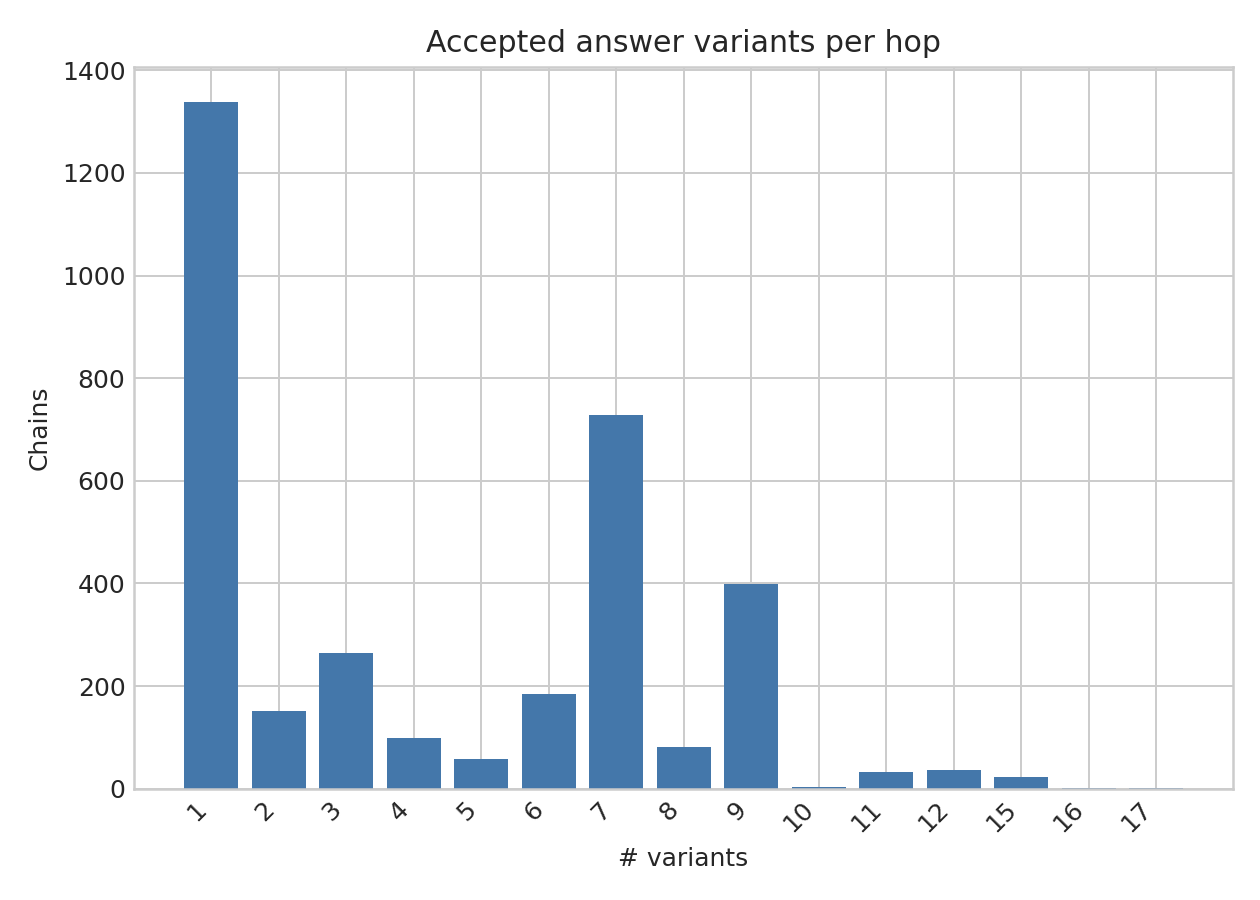
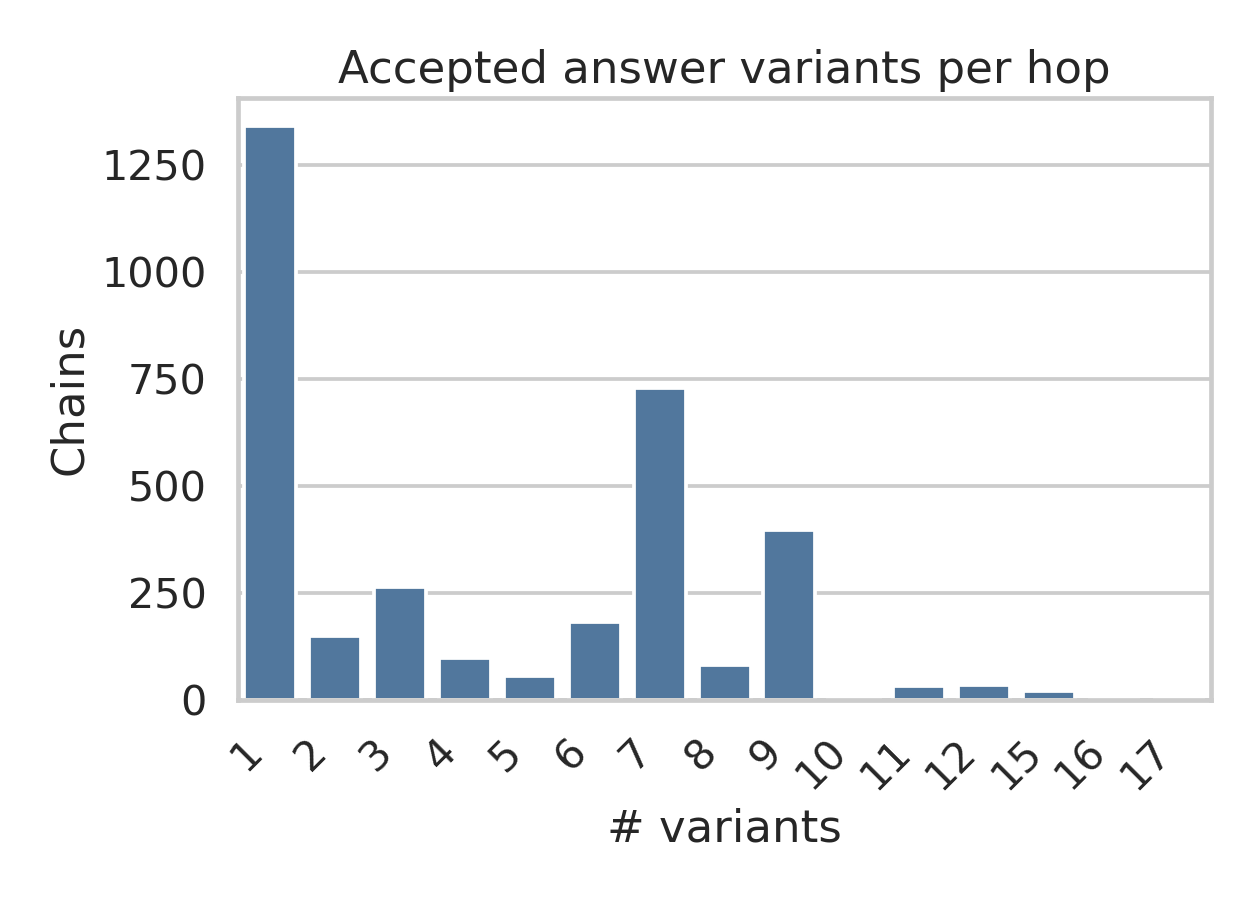
Regenerate Privacy HopQA viewer with seaborn plots

diff --git a/data_files/privacy_hopqa_final_dataset/dataset_viewer.html b/data_files/privacy_hopqa_final_dataset/dataset_viewer.html
@@ -25,7 +25,7 @@ function sourceLine(h){const rows=h.answer_variant_sources||[];if(!rows.length)r
 function hop(h){const issues=(h.question_issues||[]).map(issueLabel).map(esc).join(', ');const vars=h.accepted_answer_variants||[],alts=h.alternate_valid_answers||[];return `<div class="hop-detail"><div><span class="b ${h.hop_type==='L'?'b-l':'b-w'}">${esc(h.hop_type)}</span> <b>Hop ${h.hop_number}</b> <span class="tag">${esc(h.doc_inferred_by)}</span><span class="tag">${vars.length} accepted answers</span>${alts.length?`<span class="tag">${alts.length} alternates</span>`:''}</div>${issues?`<div class="warn"><b>Question issue:</b> ${issues}</div>`:''}<div class="hop-q">${esc(h.question_templated||h.question)}</div><div class="hop-a">Canonical answer: ${esc(h.answer)}</div><div class="altbox"><b>Accepted answers for exact-match eval (${vars.length}):</b><div class="variants">${vars.map(v=>`<code>${esc(v)}</code>`).join(' ')}</div>${alts.length?`<b>Alternates only (${alts.length}):</b><div class="variants">${alts.map(v=>`<code>${esc(v)}</code>`).join(' ')}</div>`:''}${sourceLine(h)}</div><div class="hop-doc">${esc(h.doc_id)}${h.doc_ref?' · '+esc(h.doc_ref):''}</div>${h.supporting_span?`<div class="hop-span">${esc(h.supporting_span)}</div>`:''}</div>`}
 function splitPanel(){if(!SPLIT||!SPLIT.counts)return '';return `<div class="panel"><div class="panel-title">Canonical train / val / test split</div><p><b>Strategy:</b> ${esc(SPLIT.strategy)}. <b>Held-out test company:</b> ${esc(SPLIT.test_company)}.</p>${table(SPLIT.counts)}</div>`}
 function analysis(){mode='analysis';renderList();ni.textContent='Analysis';const a=AN||{},u=UNIQ||{};content.innerHTML=`<div class="panel"><div class="panel-title">Summary</div><div class="grid"><div class="stat-card"><b>${a.n_chains||D.length}</b><span>chains</span></div><div class="stat-card"><b>${a.n_hops_total||''}</b><span>hop questions</span></div><div class="stat-card"><b>${(a.transition_summary||{}).has_local_to_web||0}</b><span>chains with L→W</span></div><div class="stat-card"><b>${(a.transition_summary||{}).has_web_to_local||0}</b><span>chains with W→L</span></div><div class="stat-card"><b>${u.n_approx_unique_clusters||''}</b><span>approx unique questions</span></div><div class="stat-card"><b>${a.n_hops_with_alternate_valid_answers||0}</b><span>hops with alternates</span></div></div></div>${splitPanel()}<div class="panel"><div class="panel-title">Definitions</div>${Object.entries(a.definitions||{}).map(([k,v])=>`<p><b>${esc(k)}:</b> ${esc(v)}</p>`).join('')}</div><div class="panel"><div class="panel-title">Transition summary</div>${table(a.transition_summary)}</div><div class="panel"><div class="panel-title">Explicit hops</div>${table((a.hops_per_chain||{}).distribution)}</div><div class="panel"><div class="panel-title">Effective doc hops</div>${table((a.effective_doc_hops_per_chain||{}).distribution)}</div><div class="panel"><div class="panel-title">Effective type hops</div>${table((a.effective_type_hops_per_chain||{}).distribution)}</div><div class="panel"><div class="panel-title">Pattern frequency</div>${table(a.pattern_frequency,80)}</div><div class="panel"><div class="panel-title">Company frequency</div>${table(a.company_frequency,80)}</div><div class="panel"><div class="panel-title">Task frequency</div>${table(a.task_frequency,120)}</div>`}
-function plots(){mode='plots';renderList();ni.textContent='Plots';const imgs=['hops_per_chain.png','effective_doc_hops_per_chain.png','effective_type_hops_per_chain.png','unique_docs_per_chain.png','local_to_web_transitions.png','transition_summary.png','top_patterns.png','top_companies.png','top_tasks.png','answer_variants_per_hop.png'];content.innerHTML=`<div class="panel"><div class="panel-title">Distribution plots</div><p>Generated from <code>dataset_analysis.json</code>. Seaborn is used if installed; otherwise matplotlib renders the same figures.</p></div><div class="plot-grid">${imgs.map(x=>`<img src="plots/${x}" alt="${esc(x)}">`).join('')}</div>`}
+function plots(){mode='plots';renderList();ni.textContent='Plots';const imgs=['hops_per_chain.png','effective_doc_hops_per_chain.png','effective_type_hops_per_chain.png','unique_docs_per_chain.png','local_to_web_transitions.png','transition_summary.png','top_patterns.png','top_companies.png','top_tasks.png','answer_variants_per_hop.png'];content.innerHTML=`<div class="panel"><div class="panel-title">Distribution plots</div><p>Generated from <code>dataset_analysis.json</code>.</p></div><div class="plot-grid">${imgs.map(x=>`<img src="plots/${x}" alt="${esc(x)}">`).join('')}</div>`}
 bp.onclick=()=>sel(C-1);bn.onclick=()=>sel(C+1);ba.onclick=analysis;bl.onclick=plots;bd.onclick=()=>sel(C);[ft,fp,fc,fq,fx].forEach(e=>e.oninput=filter);document.addEventListener('keydown',e=>{if(e.key==='ArrowLeft')sel(C-1);if(e.key==='ArrowRight')sel(C+1)});init();
 </script>
 </body>

diff --git a/scripts/publish_privacy_hopqa_final_dataset.py b/scripts/publish_privacy_hopqa_final_dataset.py
@@ -172,7 +172,7 @@ def main() -> None:
         "- `dataset_stats.json`: task/company/pattern/hop/doc statistics.\n"
         "- `dataset_analysis.json`: derived transition, effective-hop, and answer-variant statistics.\n"
         "- `question_uniqueness_stats.json`: approximate near-duplicate question clusters.\n"
-        "- `plots/`: matplotlib/seaborn distribution plots used by the viewer.\n"
+        "- `plots/`: distribution plots used by the viewer.\n"
         "- `manifest.json`: publish provenance.\n",
         encoding="utf-8",
     )

diff --git a/data_files/privacy_hopqa_final_dataset/README.md b/data_files/privacy_hopqa_final_dataset/README.md
@@ -17,5 +17,5 @@ Files:
 - `dataset_stats.json`: task/company/pattern/hop/doc statistics.
 - `dataset_analysis.json`: derived transition, effective-hop, and answer-variant statistics.
 - `question_uniqueness_stats.json`: approximate near-duplicate question clusters.
-- `plots/`: matplotlib/seaborn distribution plots used by the viewer.
+- `plots/`: distribution plots used by the viewer.
 - `manifest.json`: publish provenance.
